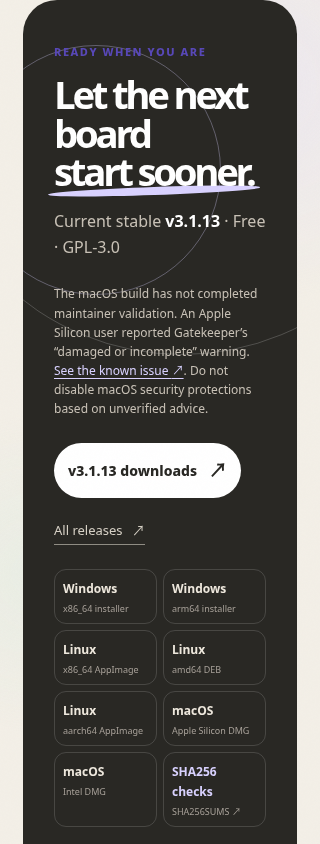
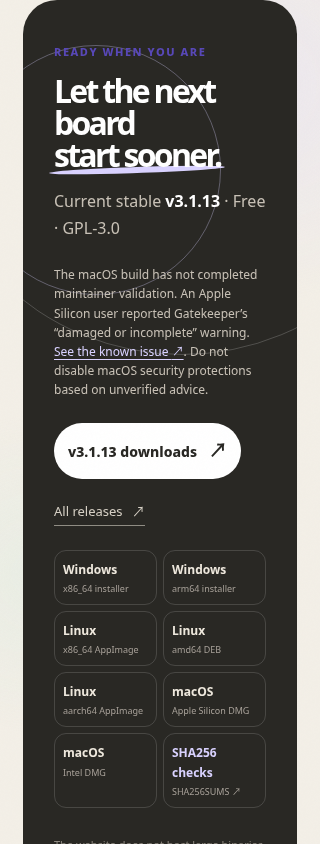
fix: tighten download heading on narrow phones

Changed region(s): [[0.1562, 0.0924, 0.8438, 0.955], [0.5312, 0.6469, 0.7812, 0.9858], [0.5, 0.9858, 0.5312, 1.0]]

diff --git a/src/css/home-polish.css b/src/css/home-polish.css
@@ -787,7 +787,7 @@
 
 @media (max-width: 390px) {
   .download h2 {
-    font-size: clamp(36px, 12vw, 44px);
+    font-size: clamp(32px, 10vw, 39px);
   }
 
   .download-actions .button-light {
